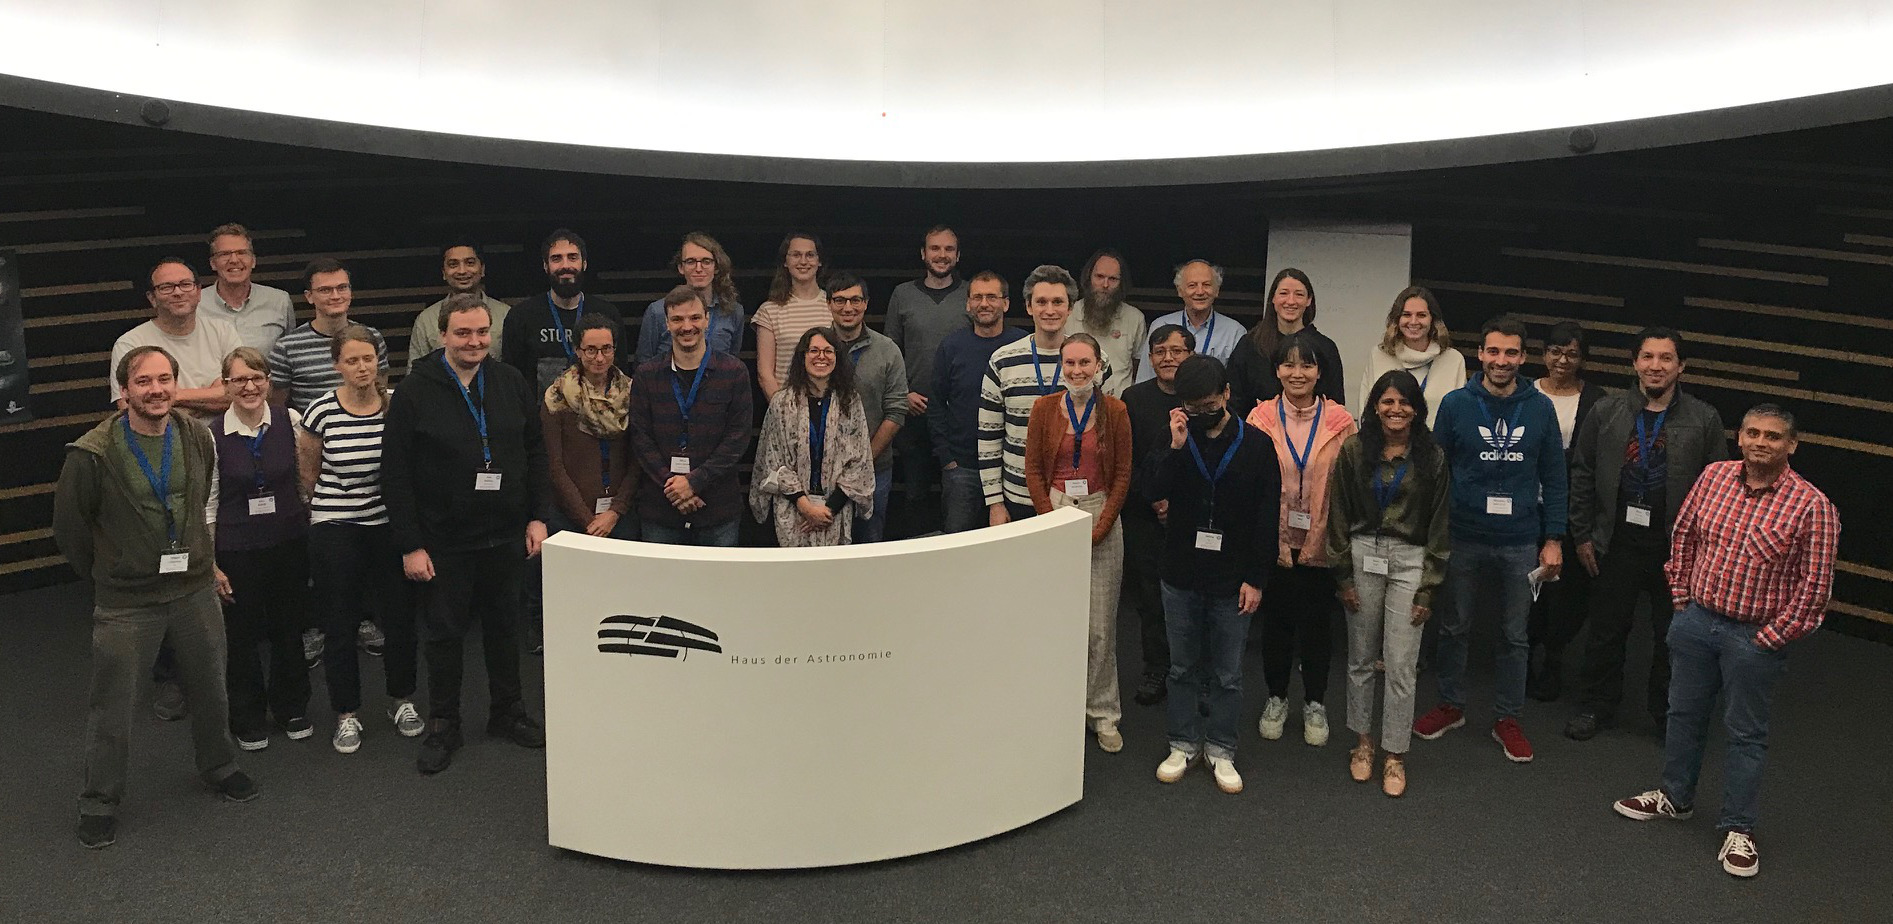
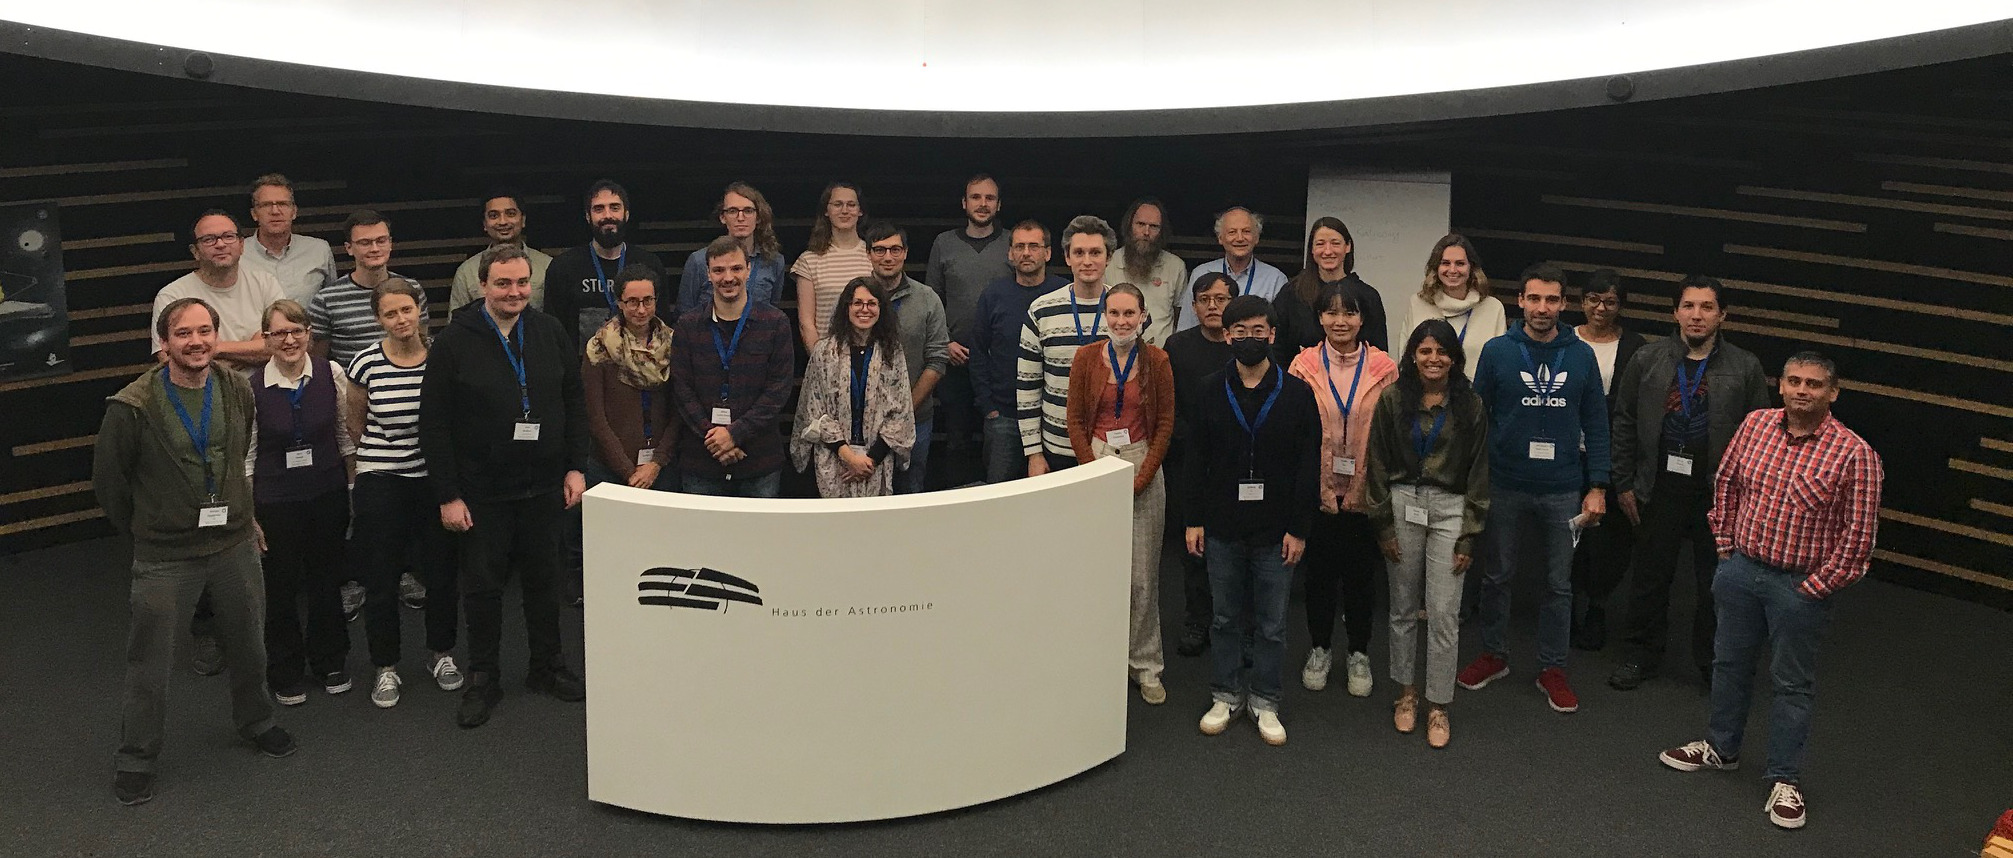
group phot

diff --git a/docs/content/participants.md b/docs/content/participants.md
@@ -22,6 +22,11 @@ _We will later list here the participants of the workshop, and we will add a gro
 
 <i class="fa-solid fa-coins"></i> There are no registration fees to participate to this workshop.
 
+
+<div style="display:flex; justify-content: center; flex-wrap: wrap;">
+<img src="static/img/group.jpg" alt="group" width=90% style="float: right;">
+</div>
+
 <div style="font-size:30px; display:flex; justify-content: center;">
 <i class="fa-solid fa-people-group" style="margin-left: 15px;"></i>
 </div>
